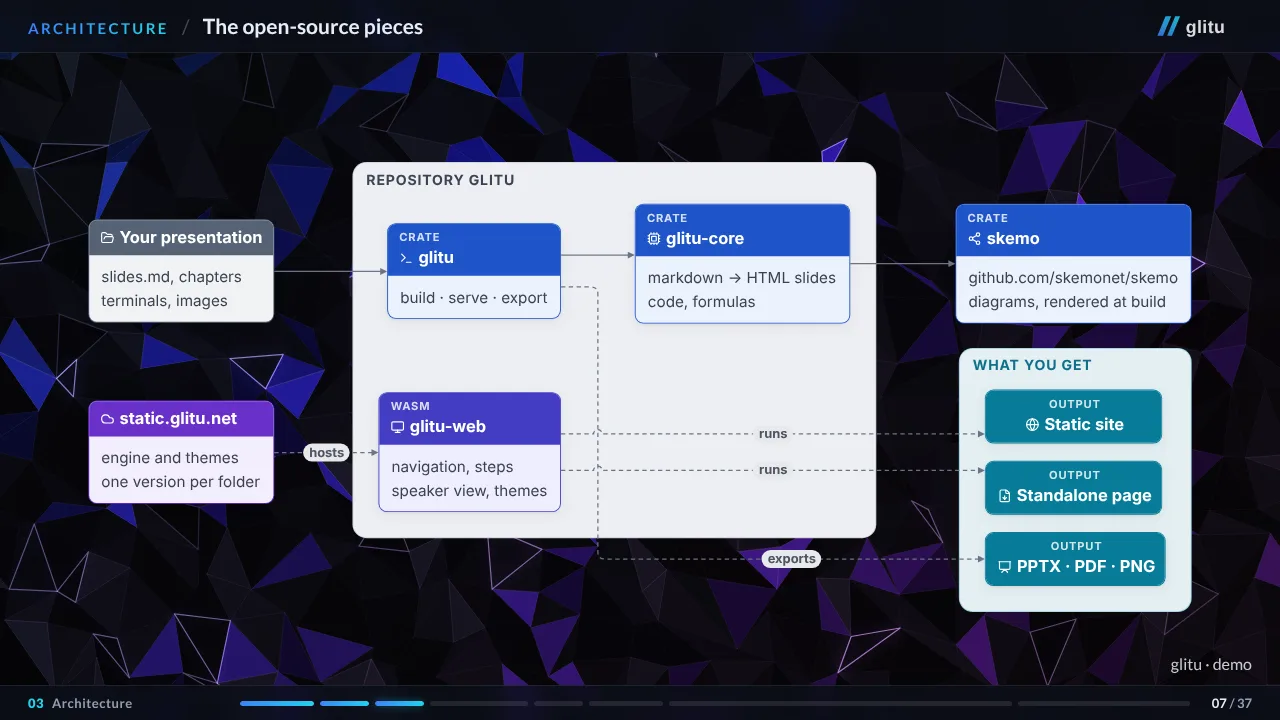
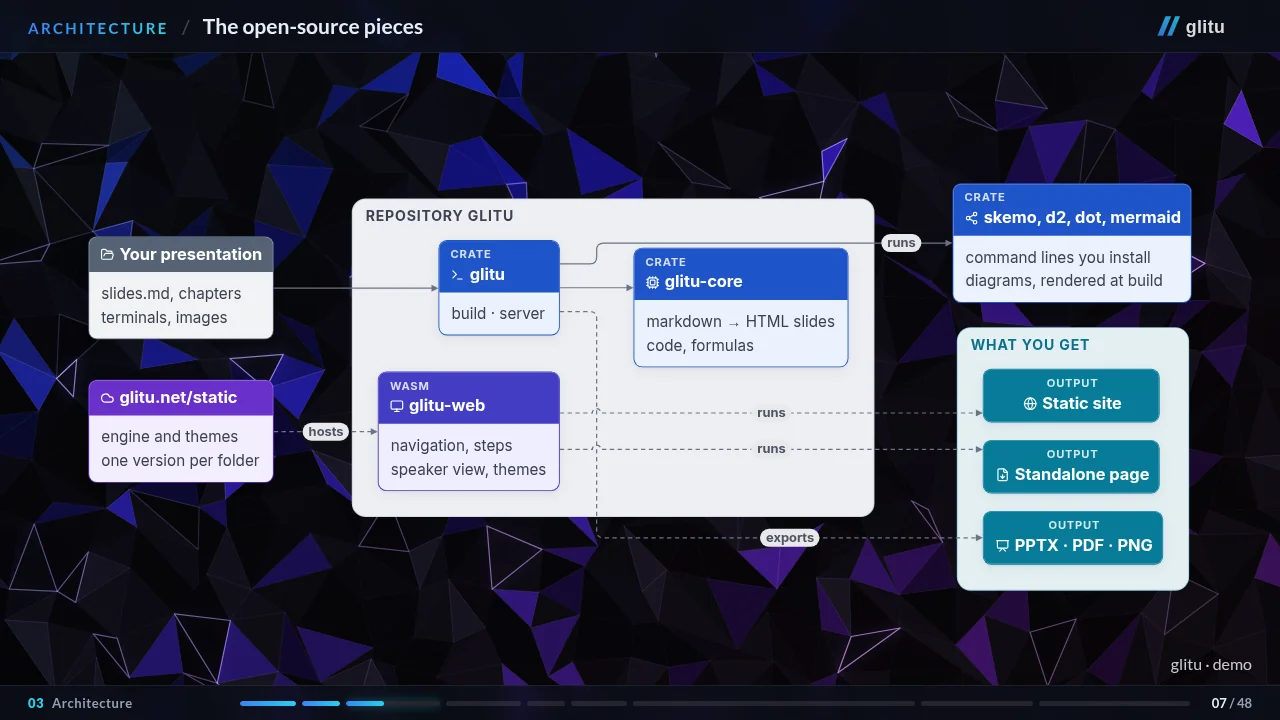
docs: the website's screenshots and the demo's terminal recording redone; the changelog of 0.2.1
- site/img: cover (title no longer cut), architecture, frieze and terminal from the current demo
- build.cast: the counts of today's build (38 files, 2.5 MB, 48 pages)
- the demo's diagram slide highlights the lines of the new architecture diagram
- tests/oracle: those slides recaptured

diff --git a/tools/build_cast.py b/tools/build_cast.py
@@ -15,7 +15,7 @@ PROMPT = f"{GREEN}{BOLD}me@desk{RESET}:{BLUE}{BOLD}~/glitu/tests/features{RESET}
 
 def main():
     rec = Recording(cols=72, rows=10, prompt=PROMPT)
-    rec.command("glitu build site -o dist", ["Built dist (static website, 36 files)"])
+    rec.command("glitu build site -o dist", ["Built dist (static website, 38 files)"])
     rec.pause("build")
     folders = "  ".join(f"{BLUE}{BOLD}{d}{RESET}" for d in ["fonts", "glitu", "img"])
     rec.type("ls dist")
@@ -26,9 +26,9 @@ def main():
     )
     rec.prompt()
     rec.pause("ls")
-    rec.command("glitu build -o demo.html", ["Built demo.html (2.0 MB)"])
+    rec.command("glitu build -o demo.html", ["Built demo.html (2.5 MB)"])
     rec.pause("standalone")
-    rec.command("glitu build pdf -o demo.pdf", ["Built demo.pdf (37 pages)"], first_dt=2.5)
+    rec.command("glitu build pdf -o demo.pdf", ["Built demo.pdf (48 pages)"], first_dt=2.5)
     rec.save(DEST, title="glitu build")
 
 

diff --git a/CHANGELOG.md b/CHANGELOG.md
@@ -30,9 +30,9 @@ and the versions [Semantic Versioning](https://semver.org/).
   impossible size, images missing from the archive or of another size than the slides.
 
 ### Fixed
-- A d2 diagram is centred in its place, like the others (d2 pinned it to the top left corner).
-- `glitu oracle check` matches the slides of a vertical stack one by one (they share their state
-  names).
+- Animated code (`magic-move`) keeps the unchanged lines in place: a word repeated far away no
+  longer travels there (the `-` of a closing `---` flew to the `font-title` lines added above it).
+- The screenshots of the website's home page show the current demo (the cover title no longer cut).
 - `glitu-play`: an image that cannot be prepared is reported instead of freezing the player; the
   speaker view in a window smaller than its bar no longer crashes; `--start` past the last slide
   opens the last click instead of the first; on Wayland, keys whose keymap names their type
@@ -48,6 +48,13 @@ and the versions [Semantic Versioning](https://semver.org/).
 - A terminal recording announcing an endless screen is shown on a bounded one (1000 × 500); click
   numbers near the largest one and a `data-autoslide` that is not a number are read safely.
 - `tools/ci.sh` passes on macOS.
+
+## 0.2.1 — 2026-11-12
+
+### Fixed
+- A d2 diagram is centred in its place, like the others (d2 pinned it to the top left corner).
+- `glitu oracle check` matches the slides of a vertical stack one by one (they share their state
+  names).
 
 ### Changed
 - The demo shows the eight template themes and a diagram of each engine (Mermaid, D2, Graphviz);

diff --git a/tests/features/chapters/source.md b/tests/features/chapters/source.md
@@ -47,12 +47,12 @@ Note: The deck is one markdown file, and its front matter. [click] One include p
 ### A skemo block
 
 - The presentation, then the tool @1
-- The compiler and skemo @2
+- The compiler and the diagram tools @2
 - The engine in the browser @3
 - What you get @4
 - Where the engine is published @5
 
-<<< architecture.md#L10-L42 pug file="chapters/architecture.md" lines="2-11|12-15,21-23|16-19|25-28|30-33" @1
+<<< architecture.md#L10-L42 pug file="chapters/architecture.md" lines="2-10,12|11,13-15,21-23|16-19|25-28|30-33" @1
 
 Note: A skemo block: cards, zones and arrows, each with the click at which it appears. These are
 the lines of the architecture slide, read from its file.
